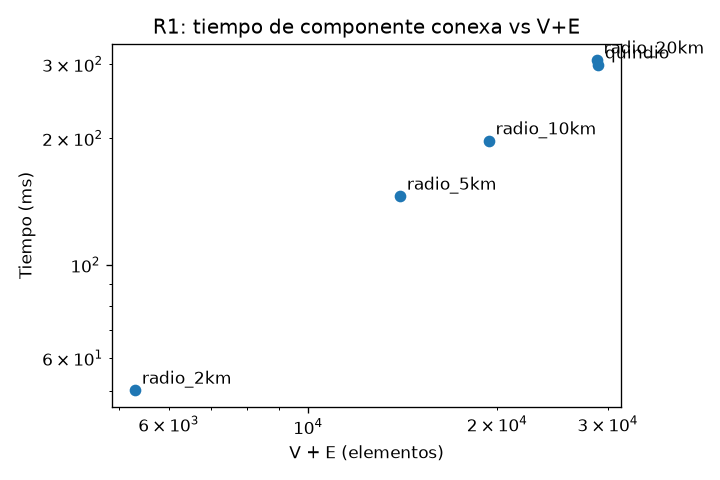
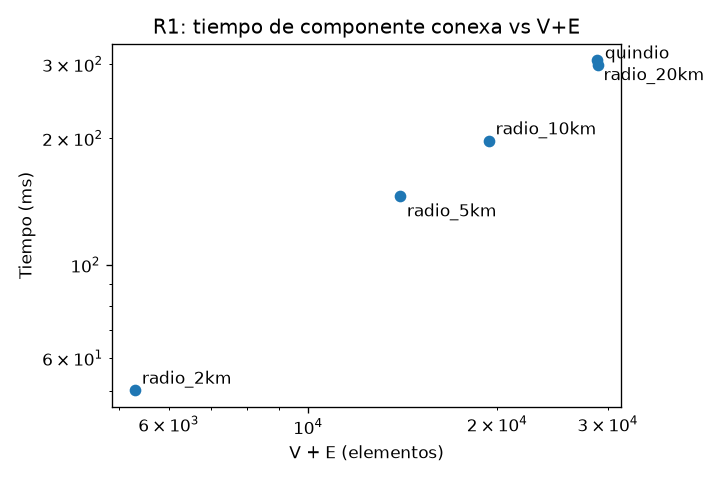
fix(r5): evitar solapamiento de etiquetas en figura R1

Changed region(s): [[0.825, 0.0625, 0.9778, 0.1875], [0.55, 0.375, 0.7028, 0.4688]]

diff --git a/src/rutas/report/figuras.py b/src/rutas/report/figuras.py
@@ -31,10 +31,12 @@ def _guardar(fig, salida: Path) -> None:
 
 def figura_r1(rows: list[dict], salida: Path) -> None:
     fig, ax = plt.subplots(figsize=(6, 4))
-    for r in rows:
+    for i, r in enumerate(rows):
         x, y = float(r["V_mas_E"]), float(r["tiempo_ms"])
         ax.scatter(x, y, color="tab:blue")
-        ax.annotate(r["red"], (x, y), textcoords="offset points", xytext=(4, 4))
+        # Alterna la altura de la etiqueta: redes casi del mismo tamaño se pisan.
+        ax.annotate(r["red"], (x, y), textcoords="offset points",
+                    xytext=(4, 4 if i % 2 == 0 else -12))
     ax.set(xscale="log", yscale="log", xlabel="V + E (elementos)",
            ylabel="Tiempo (ms)", title="R1: tiempo de componente conexa vs V+E")
     _guardar(fig, salida)
